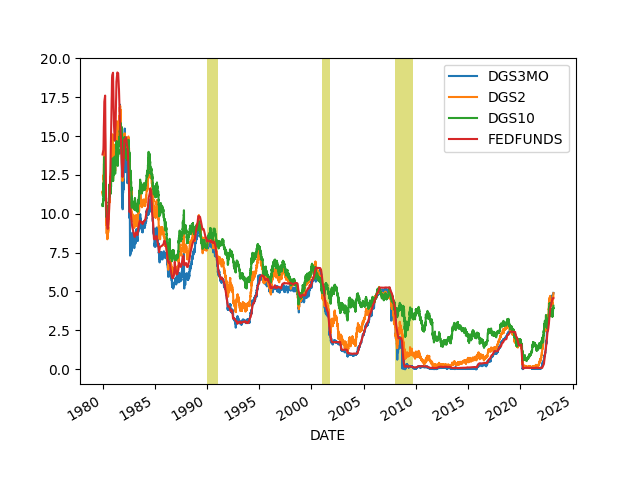
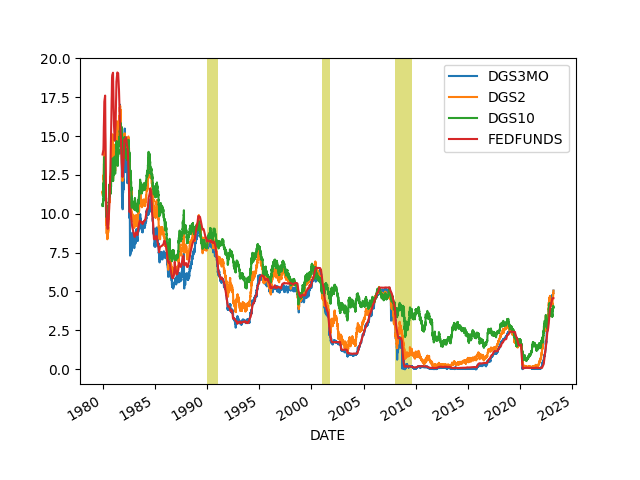
--

diff --git a/html-gen.py b/html-gen.py
@@ -129,6 +129,11 @@ head = """
     <meta charset='utf-8'>
     <meta http-equiv="X-UA-Compatible" content="IE=edge">
     <meta name="viewport" content="width=device-width,maximum-scale=2">
+    <style>
+     pre {
+        overflow: auto;
+     }
+    </style>
     <script type="text/x-mathjax-config">
   MathJax.Hub.Config({
     tex2jax: {inlineMath: [["$","$"]]}
@@ -153,26 +158,26 @@ bottom = """
 """
 
 def gen_html():
-        dirs, files = ls(os.getcwd())
-        for (f,size) in files:
-            if ".md" in f:
-                path = os.path.dirname(f)
-                fmd = os.path.basename(f)
-                fhtml = os.path.basename(f).replace(".md",".html")
-                update = True
-                if os.path.isfile(path + "/" + fhtml):
-                    mdtime = os.path.getmtime(path + "/" + fmd)
-                    htmltime = os.path.getmtime(path + "/" + fhtml)
-                    if htmltime > mdtime: update = False
-                if update:
-                    print ('Generating html for', f)
-                    content = open(path + "/" + fmd).read()
-                    res = head
-                    res += markdown.markdown(content, extensions=['fenced_code'])
-                    res += bottom
-                    fout = open(path + "/" + fhtml, "w")
-                    fout.write(res)
-                    fout.close()
+    dirs, files = ls(os.getcwd())
+    for (f,size) in files:
+        if ".md" in f:
+            path = os.path.dirname(f)
+            fmd = os.path.basename(f)
+            fhtml = os.path.basename(f).replace(".md",".html")
+            update = True
+            if os.path.isfile(path + "/" + fhtml):
+                mdtime = os.path.getmtime(path + "/" + fmd)
+                htmltime = os.path.getmtime(path + "/" + fhtml)
+                if htmltime > mdtime: update = False
+            if update:
+                print ('Generating html for', f)
+                content = open(path + "/" + fmd).read()
+                res = head
+                res += markdown.markdown(content, extensions=['fenced_code'])
+                res += bottom
+                fout = open(path + "/" + fhtml, "w")
+                fout.write(res)
+                fout.close()
 
 def clean_html(to):
     d = to + "/en"

diff --git a/en/2021/01/stats.md b/en/2021/01/stats.md
@@ -499,9 +499,9 @@ plt.savefig('treasuries.png')
 ```text
             DGS3MO  DGS2  DGS10  FEDFUNDS
 DATE                                     
-2023-02-28    4.88  4.81   3.92      4.57
-2023-03-01    4.90  4.89   4.01      4.57
-2023-03-02    4.91  4.89   4.08      4.57
+2023-03-06    4.93  4.89   3.98      4.57
+2023-03-07    5.04  5.00   3.97      4.57
+2023-03-08    5.06  5.05   3.98      4.57
 ```
 
 

diff --git a/en/mbl/0119/2018/week16.md b/en/mbl/0119/2018/week16.md
@@ -35,7 +35,7 @@ Israel overreacted ... Gaza is a disaster right now
 
 So true
 
-46. That's all I am saying.
+46 - That's all I am saying.
 
 ---
 
